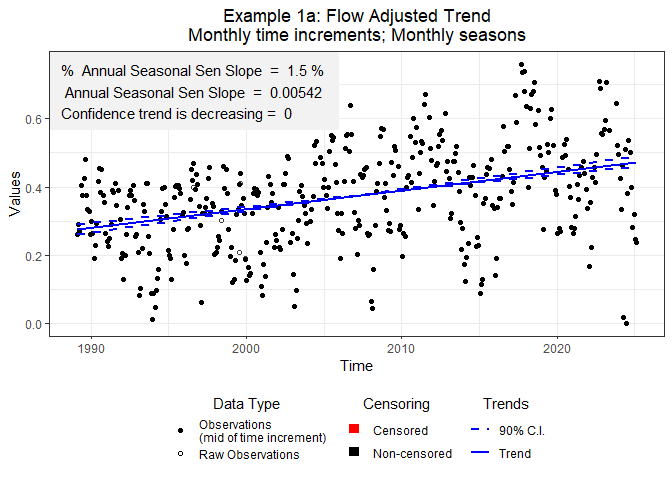
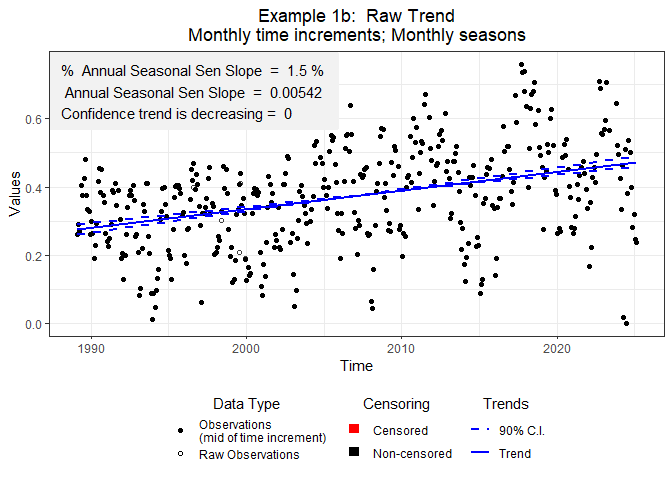
Final changes.

Changed region(s): [[0.3125, 0.0, 0.75, 0.0625]]

diff --git a/README.md b/README.md
@@ -149,6 +149,7 @@ one line of code if you want!*
 <details>
 
 <summary><b>Click to see a solution</b></summary>
+
 ``` r
 MCI_Data <- MCI_Data %>%
     mutate(myDate = as.Date(paste0(Year, "-01-01"), tz = "etc/GMT+12"))
@@ -660,6 +661,7 @@ date with the name ‘myDate’*
 <details>
 
 <summary><b>Click to see a solution</b></summary>
+
 ``` r
 NNN_Te_Teko <- NNN_Te_Teko %>% 
   mutate(myDate = as.Date(Time,tz="etc/GMT+12")) %>% 
@@ -960,7 +962,7 @@ is more appropriate?*
 <summary><b>Click to see a solution</b></summary>
 
 ``` r
-Trend_Analysis_Output_NNN_Te_Teko_Raw <-SeasonalTrendAnalysis(NNN_Te_Teko, ValuesToUse="RawValue", ValuesToUseforMedian="RawValue", mymain="Example 1a: Flow Adjusted Trend", do.plot=T)
+Trend_Analysis_Output_NNN_Te_Teko_Raw <-SeasonalTrendAnalysis(NNN_Te_Teko, ValuesToUse="RawValue", ValuesToUseforMedian="RawValue", mymain="Example 1b:  Raw Trend", do.plot=T)
 
 Trend_Analysis_Output_NNN_Te_Teko_Raw[[2]]
 ```

diff --git a/Markdown_Files/Instructions.md b/Markdown_Files/Instructions.md
@@ -986,7 +986,7 @@ is more appropriate?*
 </summary>
 
 ``` r
-Trend_Analysis_Output_NNN_Te_Teko_Raw <-SeasonalTrendAnalysis(NNN_Te_Teko, ValuesToUse="RawValue", ValuesToUseforMedian="RawValue", mymain="Example 1a: Flow Adjusted Trend", do.plot=T)
+Trend_Analysis_Output_NNN_Te_Teko_Raw <-SeasonalTrendAnalysis(NNN_Te_Teko, ValuesToUse="RawValue", ValuesToUseforMedian="RawValue", mymain="Example 1b:  Raw Trend", do.plot=T)
 
 Trend_Analysis_Output_NNN_Te_Teko_Raw[[2]]
 ```
